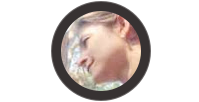
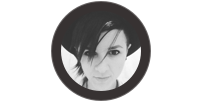
Update testimonials section

Changed region(s): [[0.3015, 0.0882, 0.7236, 0.9118]]

diff --git a/protoapp.html b/protoapp.html
@@ -154,10 +154,13 @@ layout: protoapp
     <!-- Testimonial -->
     <div class="section testimonial" data-anchor="depoimento">
       <div class="width-limiter">
-        <p class="testimonial__quote">Que experiência incrível! Agradeço a dedicação e comprometimento de vocês!<span class="testimonial__break"></span>Profissionais altamente capacitados, em busca constante por soluções rentáveis.<span class="testimonial__break"></span>Estou muito satisfeito!</p>
-        <img src="/images/2016/testimonial-avatar.png" srcset="/images/2016/testimonial-avatar@2x.png 2x" alt="João Silva" class="testimonial__avatar">
-        <h3 class="testimonial__name">João Silva</h3>
-        <p class="testimonial__info">What’s Doc App</p>
+        <p class="testimonial__quote testimonial__quote--protoapp">Foram duas semanas intensas de trabalho: uma das experiências mais imersivas e produtivas que já tive!<span class="testimonial__break"></span>Os designers que formaram o time comigo trouxeram - através de uma série de dinâmicas e exercícios
+de pensamento, pesquisa e investigação - muito mais clareza para minha idéia original. Bem como um
+diálogo mais eficiente com o público alvo identificado e o mercado.<span class="testimonial__break"></span>Saí da experiência feliz e com um protótipo que será validado por muitos usuários para refinar ainda mais
+o produto, até quando eu sentir que está no ponto para ser lançado.</p>
+        <img src="/images/2016/testimonial-avatar.png" srcset="/images/2016/testimonial-avatar@2x.png 2x" alt="Maria Claudia Azevedo" class="testimonial__avatar">
+        <h3 class="testimonial__name">Maria Claudia Azevedo</h3>
+        <p class="testimonial__info testimonial__info--protoapp">What’s Doc App</p>
       </div>
     </div>
 

diff --git a/_sass/base/_testimonial.scss b/_sass/base/_testimonial.scss
@@ -34,16 +34,24 @@
       content: '}';
       right: 0;
     }
+
+    &--protoapp {
+      font-size: 14px;
+
+      &::before,
+      &::after {
+        color: $green;
+        top: 30px;
+      }
+    }
   }
 
   &__break {
+
     &::after {
       content: ' ';
-
-      @include media($screen-small) {
-        display: block;
-        margin-top: 1em;
-      }
+      display: block;
+      margin-top: 1em;
     }
   }
 
@@ -53,8 +61,15 @@
   }
 
   &__info {
-    color: $supernova;
     font-weight: 700;
     margin: 0;
+
+    &:not(.testimonial__info--protoapp) {
+      color: $supernova;
+    }
+
+    &--protoapp {
+      color: $green;
+    }
   }
 }

diff --git a/_sass/base/_cases.scss b/_sass/base/_cases.scss
@@ -7,7 +7,7 @@
   }
 
   &__heading {
-    color: $supernova;
+    color: $green;
     font: 700 46px $heading-font-family;
     margin: 0 0 10px;
   }
@@ -16,7 +16,7 @@
     font-size: 28px;
 
     em {
-      color: $supernova;
+      color: $green;
       font-style: normal;
     }
   }
@@ -26,6 +26,7 @@
   }
 
   &.fp-completely {
+
     .cases__img {
       transition: 20s linear;
 
